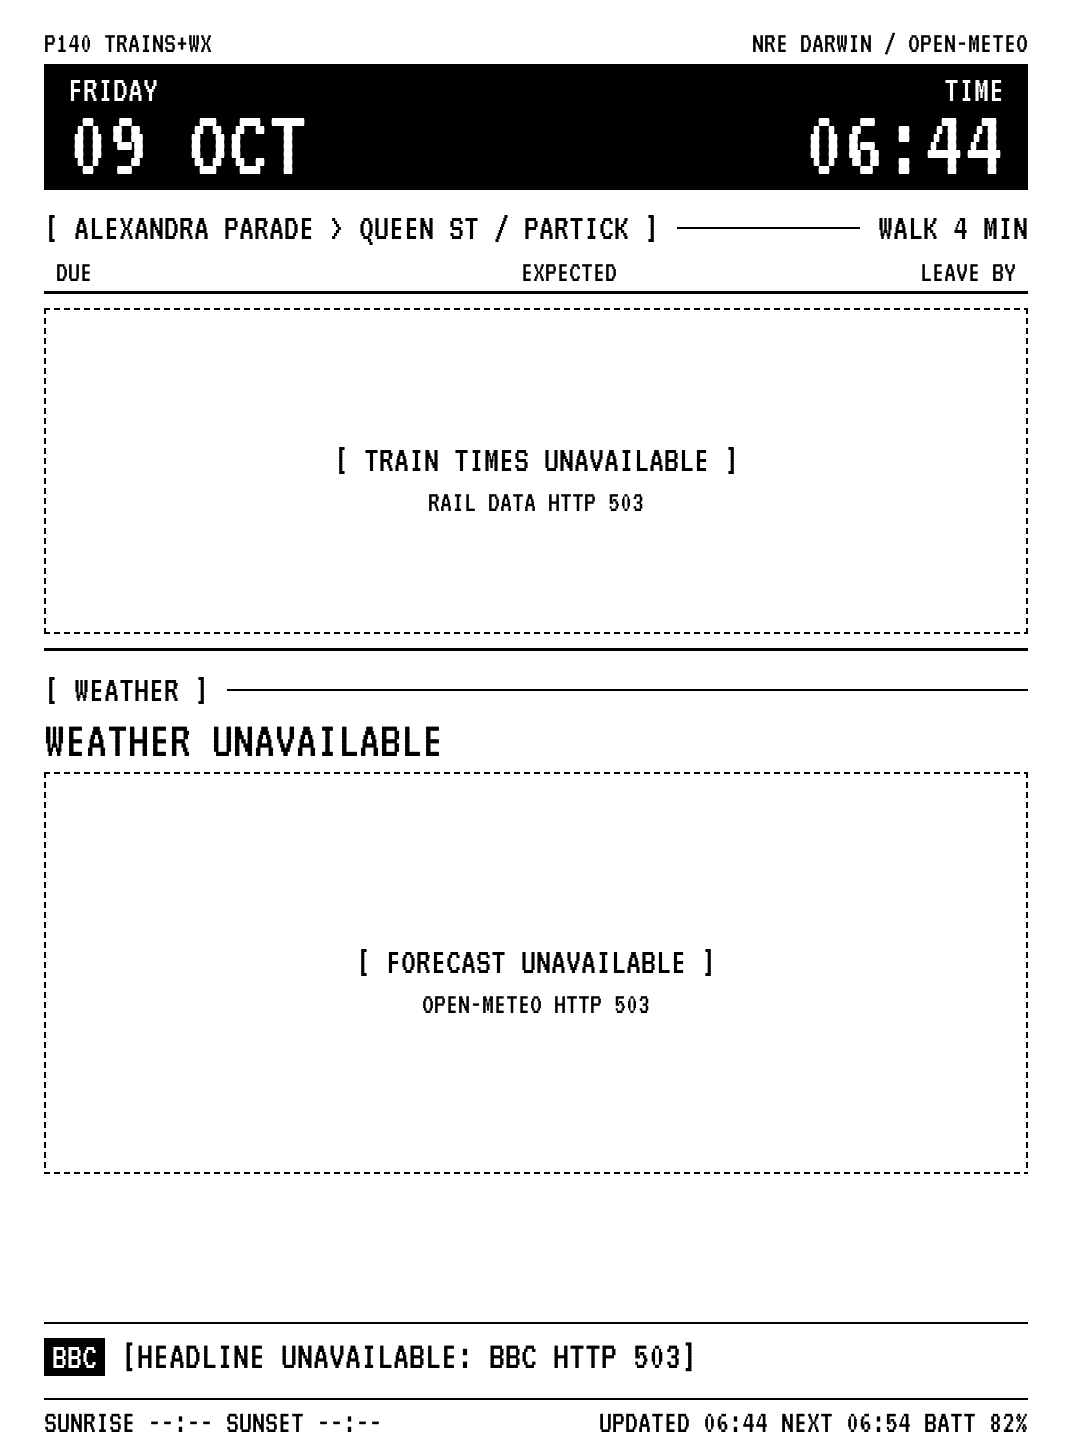
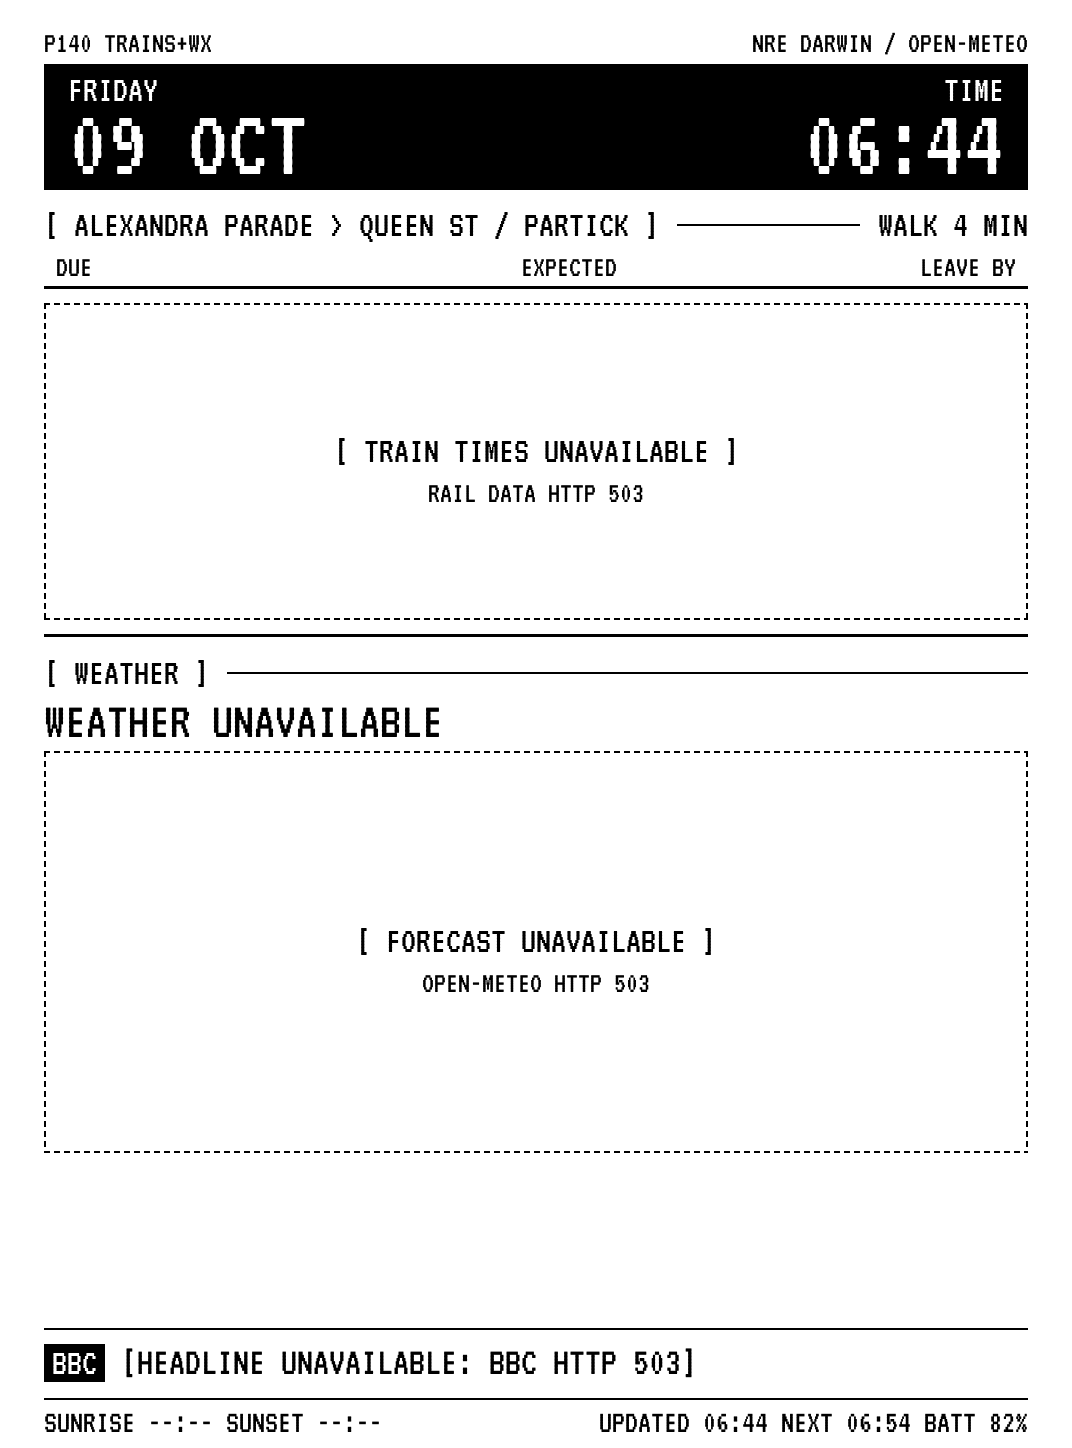
Tighten gaps so the BBC headline fits on two lines
Take a few pixels from each gap down the page (30 px in all) so the
headline wraps onto two lines even when the weather note does too.
No font sizes change, and the date band and footer stay put, so the
Kindle's clock images are unaffected.

Claude-Session: https://claude.ai/code/session_017ZSuRCey8Ka8oTAu2musMU

diff --git a/worker/src/layout.ts b/worker/src/layout.ts
@@ -28,17 +28,17 @@ const STATUS_X = 521; // EXPECTED column
 const TOP_LINE = 52; // baseline of "P140 TRAINS+WX"
 const BAND_TOP = 64; // reversed-out date/time band
 const BAND_H = 126;
-const TRAINS_HEADING = 239;
-const COLUMN_HEADS = 281;
-const ROWS_TOP = 294;
-const ROWS_BOTTOM = 648;
-const WEATHER_HEADING = 701;
-const SUMMARY = 756;
-const BOXES_TOP = 772;
+const TRAINS_HEADING = 236;
+const COLUMN_HEADS = 276;
+const ROWS_TOP = 289;
+const ROWS_BOTTOM = 634; // three rows of 115 px
+const WEATHER_HEADING = 684;
+const SUMMARY = 737;
+const BOXES_TOP = 751;
 const BOXES_H = 140;
-const STRIP_TOP = 924;
-const STRIP_BOTTOM = 1174;
-const NOTICE_TOP = 1192;
+const STRIP_TOP = 903;
+const STRIP_BOTTOM = 1153;
+const NOTICE_TOP = 1168;
 const FOOTER_RULE = 1398;
 const FOOTER_BASE = 1432;
 
@@ -377,7 +377,7 @@ function drawFooter(p: Painter, m: DashboardModel, contentBottom: number): void 
   const badgeSize = 37.5;
   const badgeW = p.width("BBC", badgeSize) + 16;
   const textX = L + badgeW + 16;
-  const lastBase = FOOTER_RULE - 30;
+  const lastBase = FOOTER_RULE - 24;
   const ruleFor = (lines: number) => lastBase - (lines - 1) * lineH - 46;
 
   const story = m.headline.ok ? m.headline.data : `[HEADLINE UNAVAILABLE: ${m.headline.error}]`;
